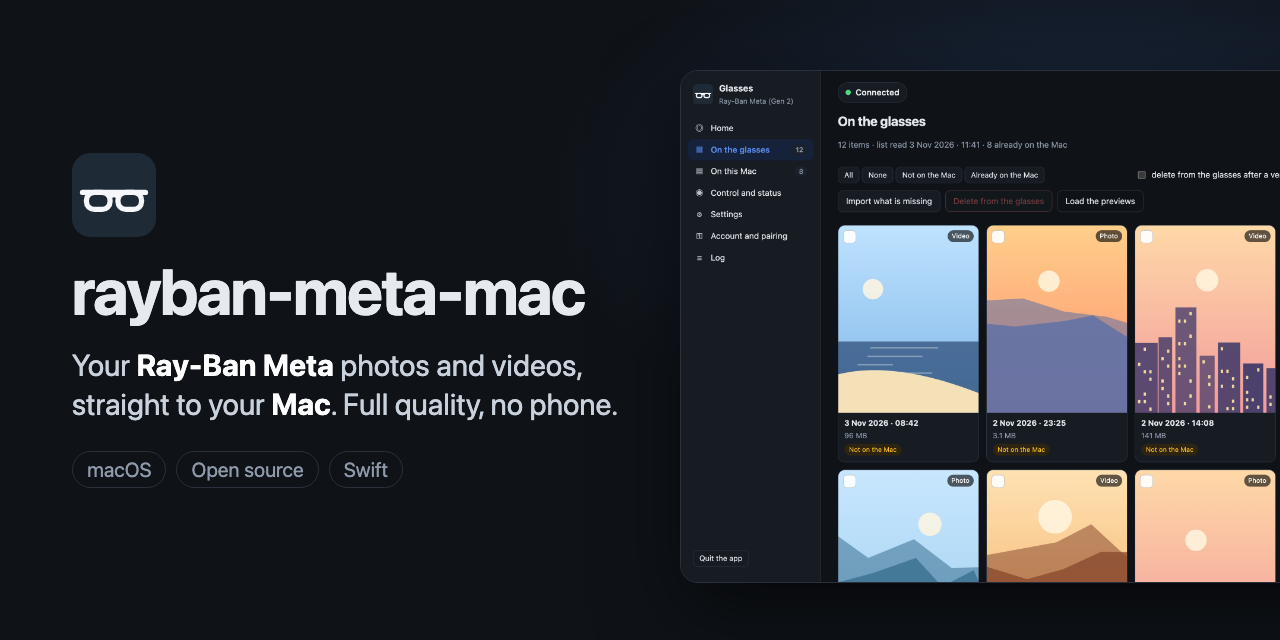
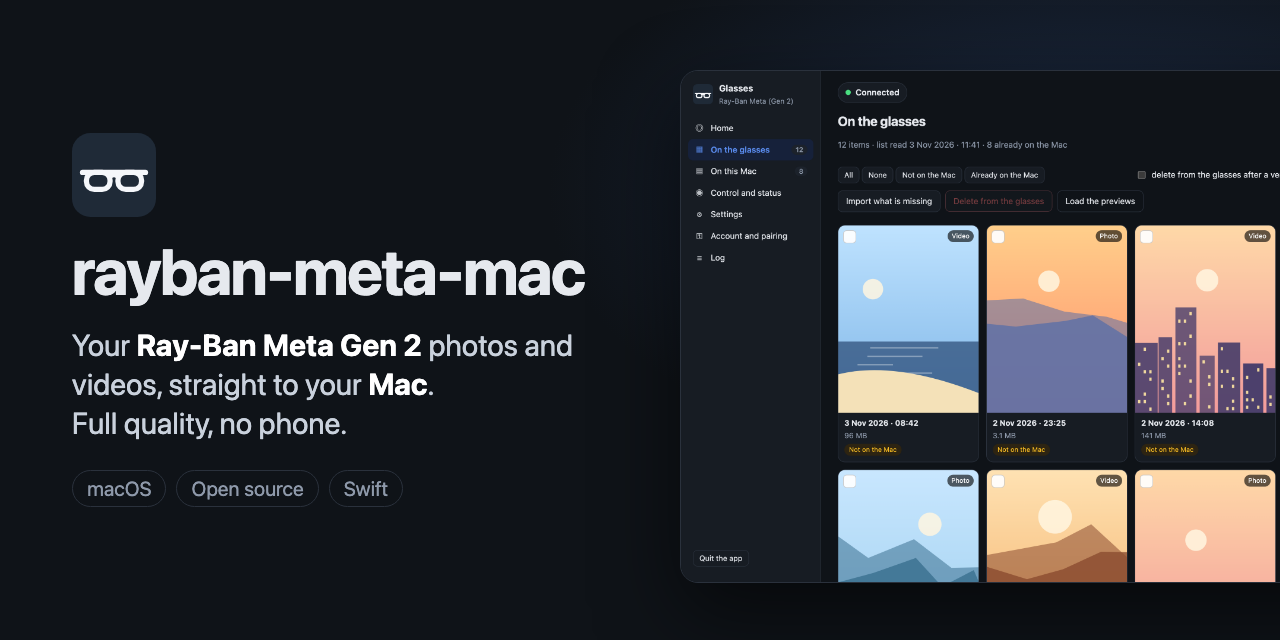
README: name the tested model, Ray-Ban Meta Gen 2
Also in the social preview image.

Changed region(s): [[0.0312, 0.375, 0.5, 0.6875], [0.0625, 0.7188, 0.3125, 0.7812], [0.0312, 0.1875, 0.125, 0.375]]

diff --git a/README.md b/README.md
@@ -1,6 +1,6 @@
 # rayban-meta-mac
 
-**Import the photos and videos from your Ray-Ban Meta smart glasses to your Mac, at full quality, without a
+**Import the photos and videos from your Ray-Ban Meta Gen 2 smart glasses to your Mac, at full quality, without a
 phone.** This is an unofficial, open-source macOS app, with a menu bar app and a command line tool. It also shows
 the battery and status of the glasses, works as a remote shutter, and changes their settings.
 
@@ -13,7 +13,7 @@ It is built on the protocol that [Visor](https://github.com/macedonga/visor) rev
 
 **New to this?** Follow the [step-by-step install](#step-by-step-without-terminal): no Terminal, only clicks.
 
-![The Glasses app on a Mac, listing the photos and videos on a pair of Ray-Ban Meta glasses and marking which ones are already on the Mac](docs/screenshots/gallery.png)
+![The Glasses app on a Mac, listing the photos and videos on a pair of Ray-Ban Meta Gen 2 glasses and marking which ones are already on the Mac](docs/screenshots/gallery.png)
 
 <sub>The screenshots use sample data.</sub>
 
@@ -43,7 +43,7 @@ It is built on the protocol that [Visor](https://github.com/macedonga/visor) rev
 
 <table>
   <tr>
-    <td width="33%"><img src="docs/screenshots/import.png" alt="Home tab during an import from Ray-Ban Meta glasses: progress bar, transfer speed, battery and status"></td>
+    <td width="33%"><img src="docs/screenshots/import.png" alt="Home tab during an import from Ray-Ban Meta Gen 2 glasses: progress bar, transfer speed, battery and status"></td>
     <td width="33%"><img src="docs/screenshots/control.png" alt="Control and status tab: remote shutter buttons, clock sync, and the detailed status of the glasses"></td>
     <td width="33%"><img src="docs/screenshots/settings.png" alt="Settings tab: Meta AI and Hey Meta settings of the glasses, as switches"></td>
   </tr>
@@ -60,7 +60,8 @@ It is built on the protocol that [Visor](https://github.com/macedonga/visor) rev
   untested on Intel.
 - Apple's command line tools. The setup offers to install them; you only click Install.
 - About 12 GB of free disk during setup. You can reclaim most of it at the end.
-- Ray-Ban Meta glasses, and the Meta account they are set up with. Tested on the Gen 2.
+- Ray-Ban Meta Gen 2 glasses, and the Meta account they are set up with. Other Meta glasses are untested (see
+  [Which glasses work?](#faq)).
 - About 30 minutes, most of it waiting for downloads and builds.
 
 You don't need Homebrew, and the setup never asks for an administrator password. Java and the Android tools are
@@ -278,7 +279,7 @@ Other Meta glasses (Oakley Meta, Gen 1) speak the same protocol according to Vis
 
 ## FAQ
 
-**Can I get photos and videos off Ray-Ban Meta glasses without the Meta AI app?**
+**Can I get photos and videos off Ray-Ban Meta Gen 2 glasses without the Meta AI app?**
 Yes. Once the setup is done, the Mac lists and imports them straight from the glasses, with no phone and no Meta
 server involved. The setup needs your Meta account once, to pair the glasses (see
 [How the login works](#how-the-login-works)).
